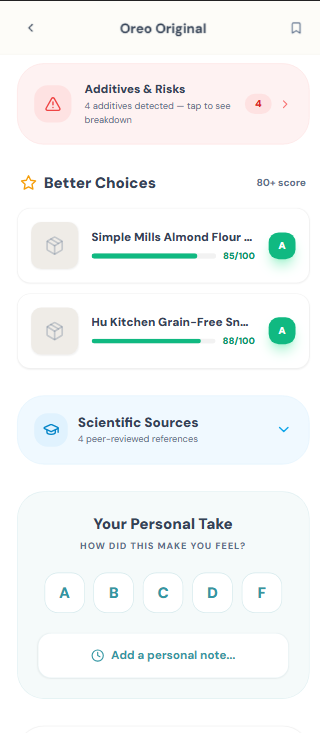
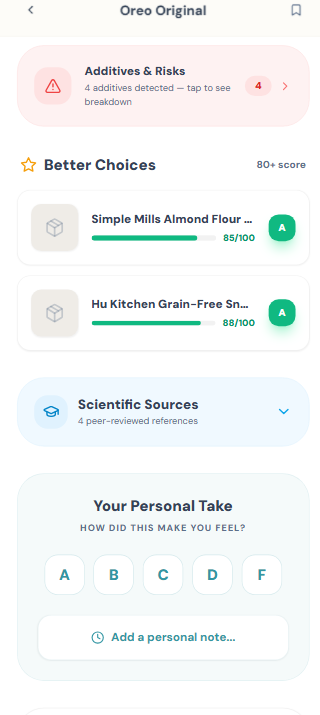
Update landing page images with cleaned screenshots
Update landing page mockups with cropped screenshots, removing status bars and scrollbars.

Replit-Commit-Author: Agent
Replit-Commit-Session-Id: c4740859-17d0-4d7d-85ea-c4bf8d4c55fc
Replit-Commit-Checkpoint-Type: full_checkpoint
Replit-Commit-Event-Id: c4199b89-8be4-47a8-8d50-0e107f7626fc
Replit-Commit-Screenshot-Url: https://storage.googleapis.com/screenshot-production-us-central1/32bd4d13-629b-4197-806b-292f99c781f2/c4740859-17d0-4d7d-85ea-c4bf8d4c55fc/rlRYbCQ
Replit-Helium-Checkpoint-Created: true

diff --git a/client/src/pages/Landing.tsx b/client/src/pages/Landing.tsx
@@ -24,7 +24,7 @@ import {
 import { TotoAvatar } from "@/components/TotoAvatar";
 import { useAuth } from "@/hooks/use-auth";
 import founderImg from "@/assets/images/founder.png";
-import scanResultImg from "@assets/Screenshot_2026-04-23_192114_1776948506372.png";
+import scanResultImg from "@assets/cropped/kefir_results_clean.png";
 import oreoResultsImg from "@assets/cropped/oreo_results_clean.png";
 
 